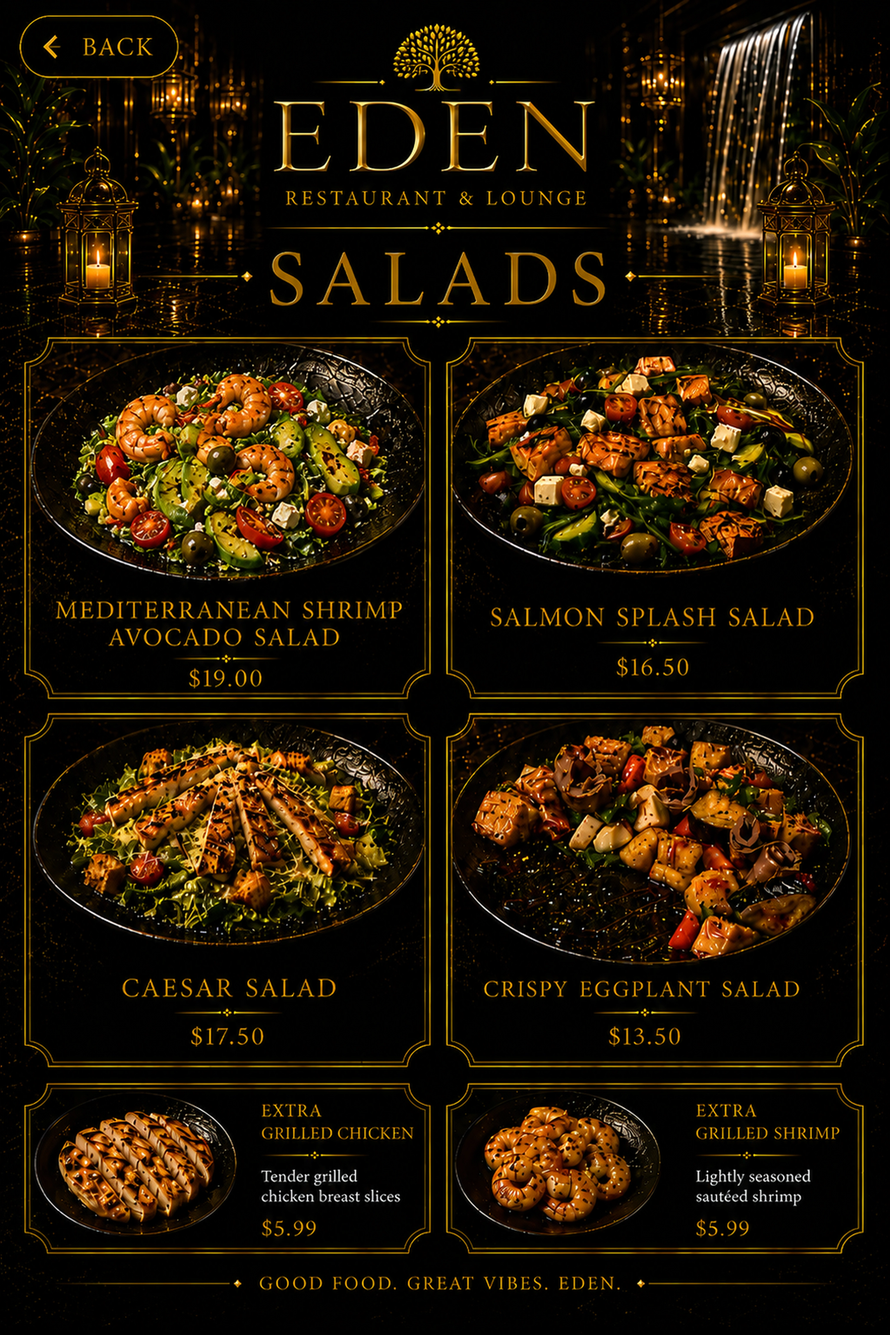
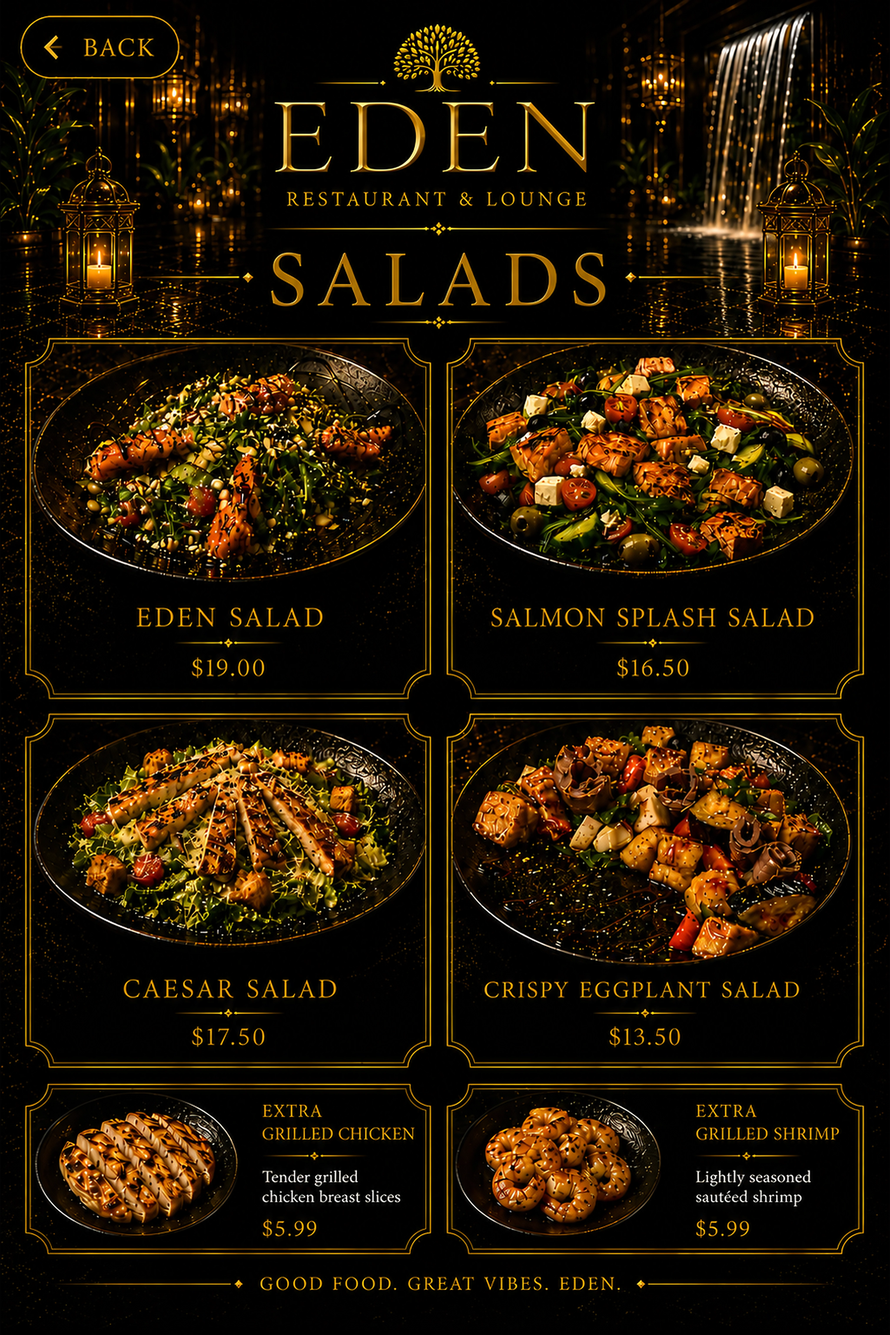
Revert "Update Mediterranean shrimp avocado salad"
This reverts commit 4eefe68a92e253cafa20af6ac1f3b74b1f0a9187.

diff --git a/script.js b/script.js
@@ -81,7 +81,7 @@ const sectionPages = {
     aspect: "four-three"
   },
   Salads: {
-    src: "assets/salads-new-page-4k.webp?v=20260525-salad",
+    src: "assets/salads-new-page-4k.webp",
     alt: "EDEN salads page"
   },
   Sides: {
@@ -205,11 +205,11 @@ const itemGroups = {
   Salads: [
     {
       id: "eden-salad",
-      name: "Mediterranean Shrimp Avocado Salad",
+      name: "Eden Salad",
       price: "$19.00",
       image: "assets/detail-salad-eden-4k.webp",
-      description: "Mediterranean shrimp salad with avocado, greens, cherry tomatoes, olives, feta, herbs, and Eden balsamic glaze.",
-      ingredients: ["shrimp", "avocado", "mixed greens", "cherry tomatoes", "olives", "feta", "herbs", "balsamic glaze"],
+      description: "Shrimp, greens, feta, almonds, cherry tomatoes, herbs, and Eden balsamic glaze.",
+      ingredients: ["shrimp", "mixed greens", "feta", "almonds", "cherry tomatoes", "herbs", "balsamic glaze"],
       hotspot: { x: 2.2, y: 25.2, w: 46.5, h: 27.4 }
     },
     {

diff --git a/index.html b/index.html
@@ -88,7 +88,7 @@
         <button class="item-close-button" type="button" data-close-item aria-label="Close item detail"></button>
         <div class="item-copy">
           <p class="item-kicker" data-item-kicker>EDEN Salads</p>
-          <h2 data-item-title>Mediterranean Shrimp Avocado Salad</h2>
+          <h2 data-item-title>Eden Salad</h2>
           <p class="item-description" data-item-description></p>
           <div class="item-price" data-item-price>$19.00</div>
           <div class="item-options">
